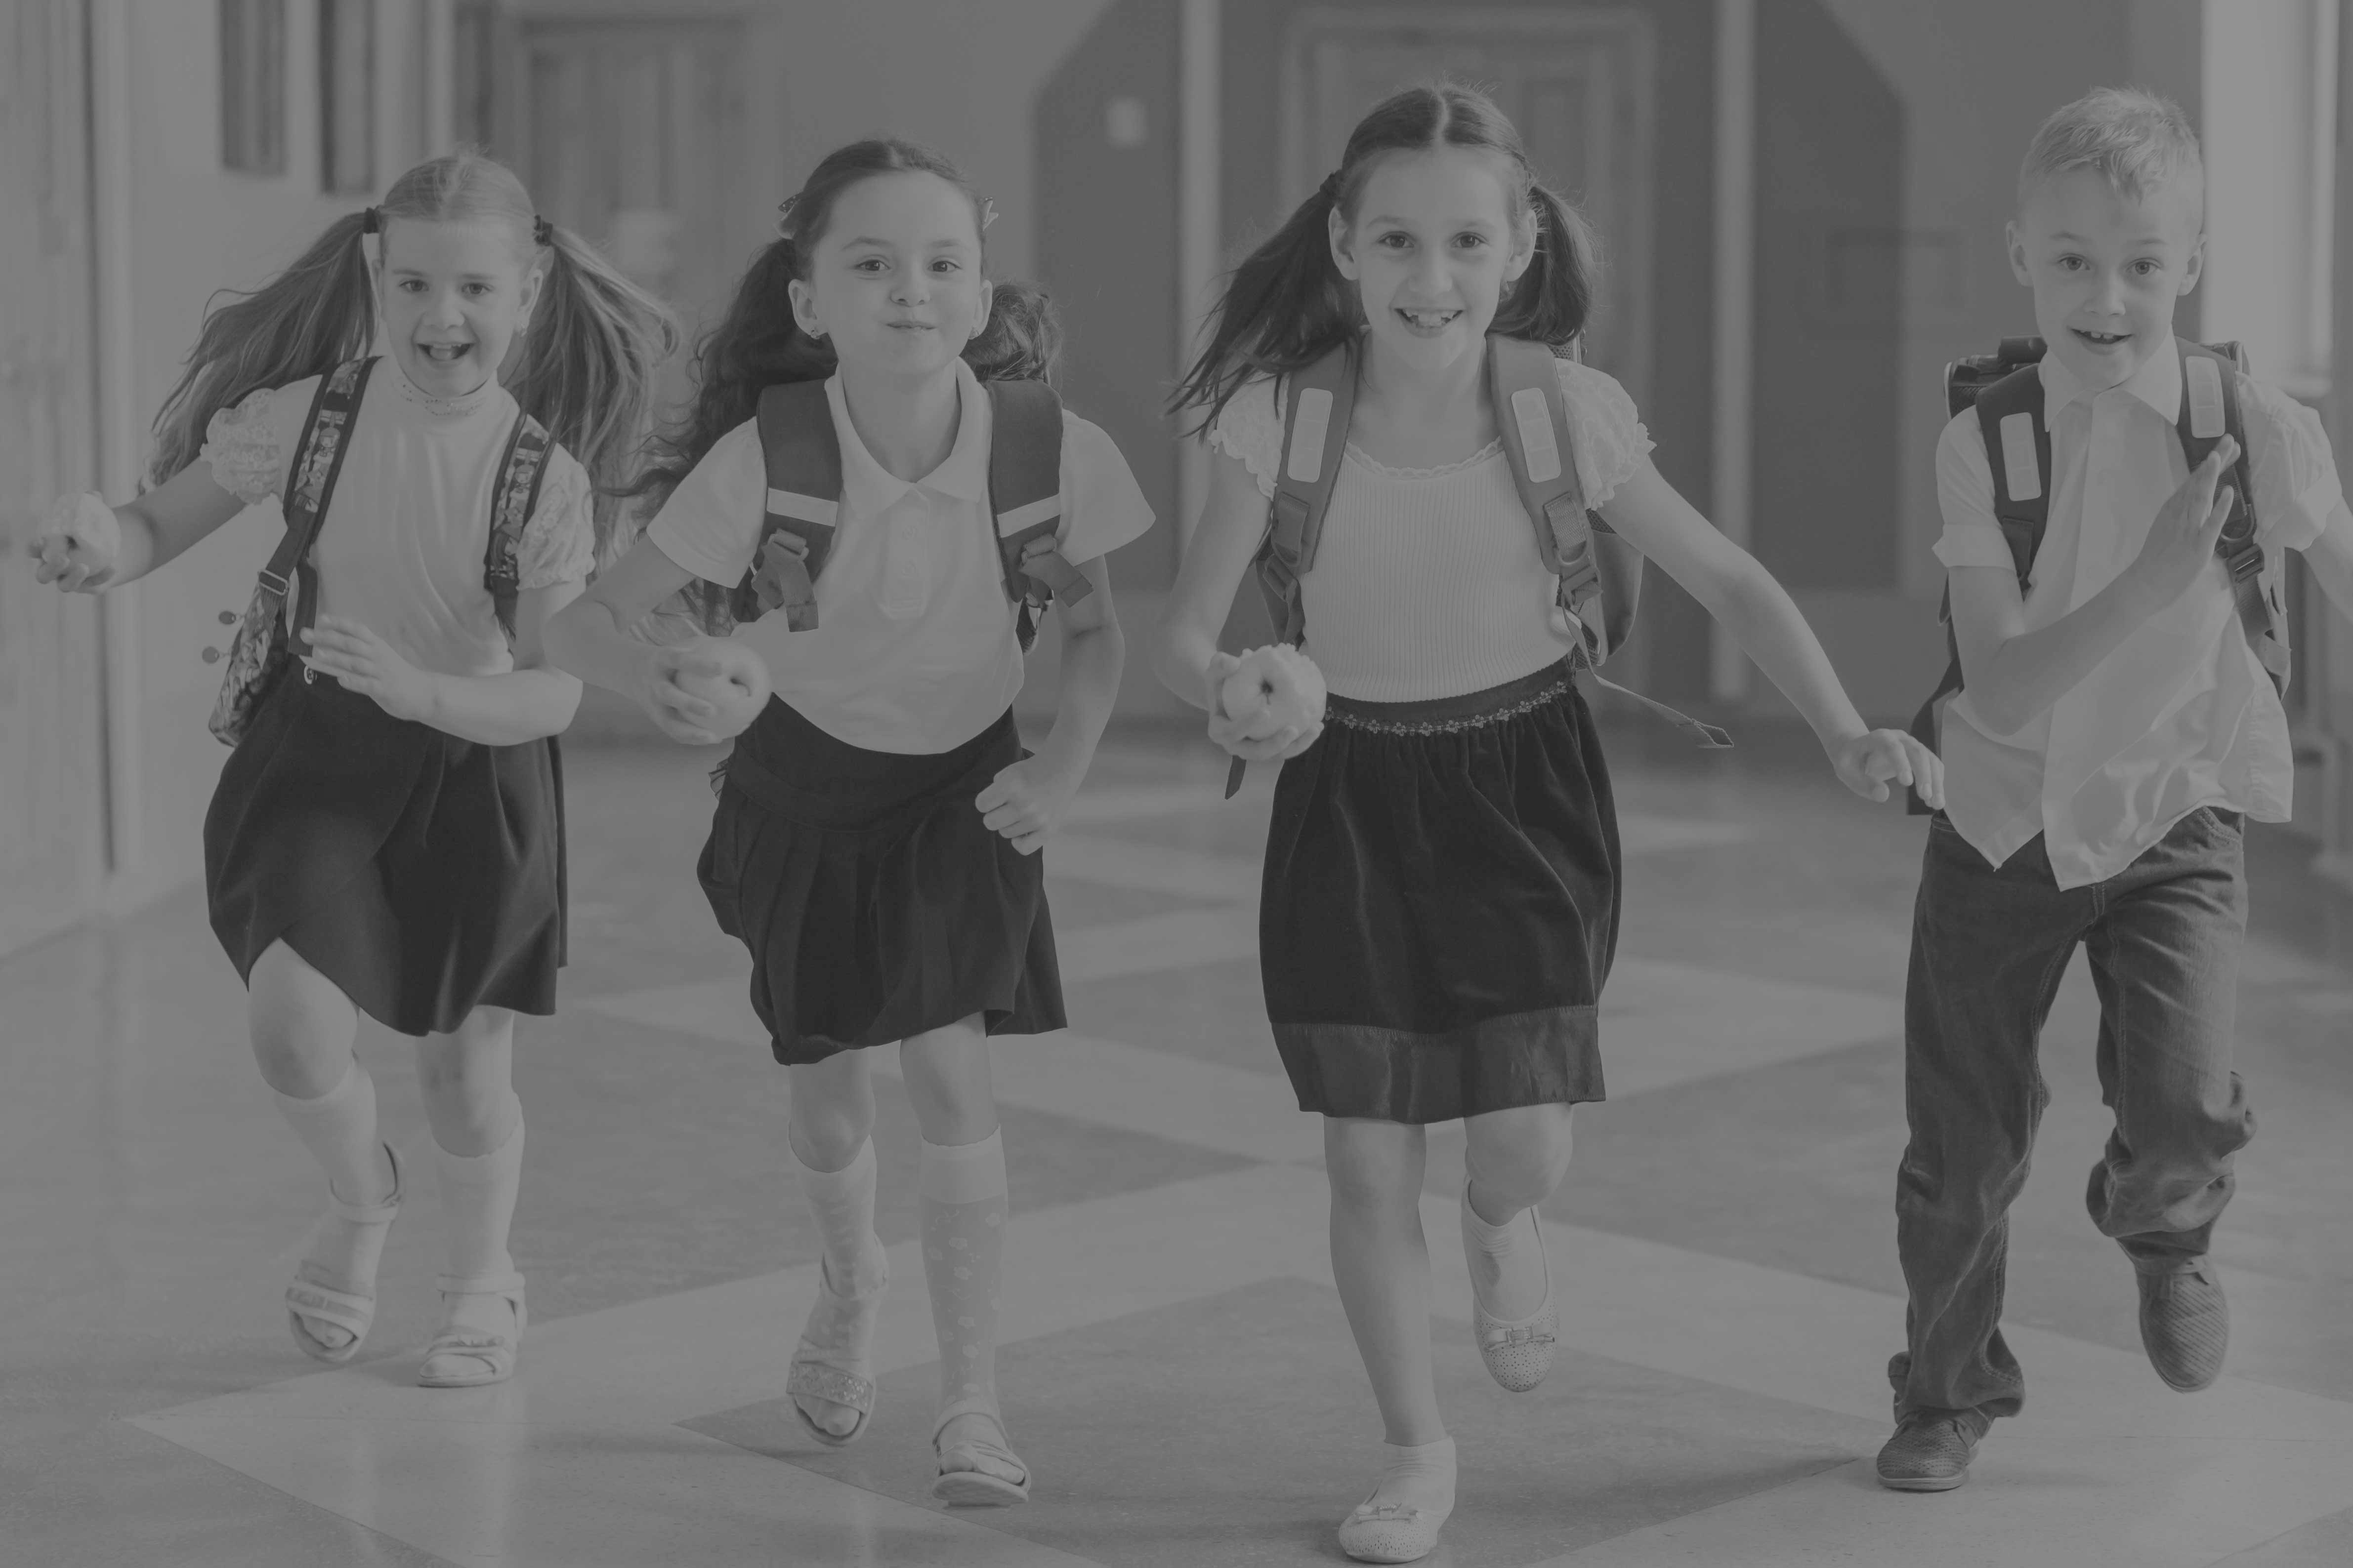
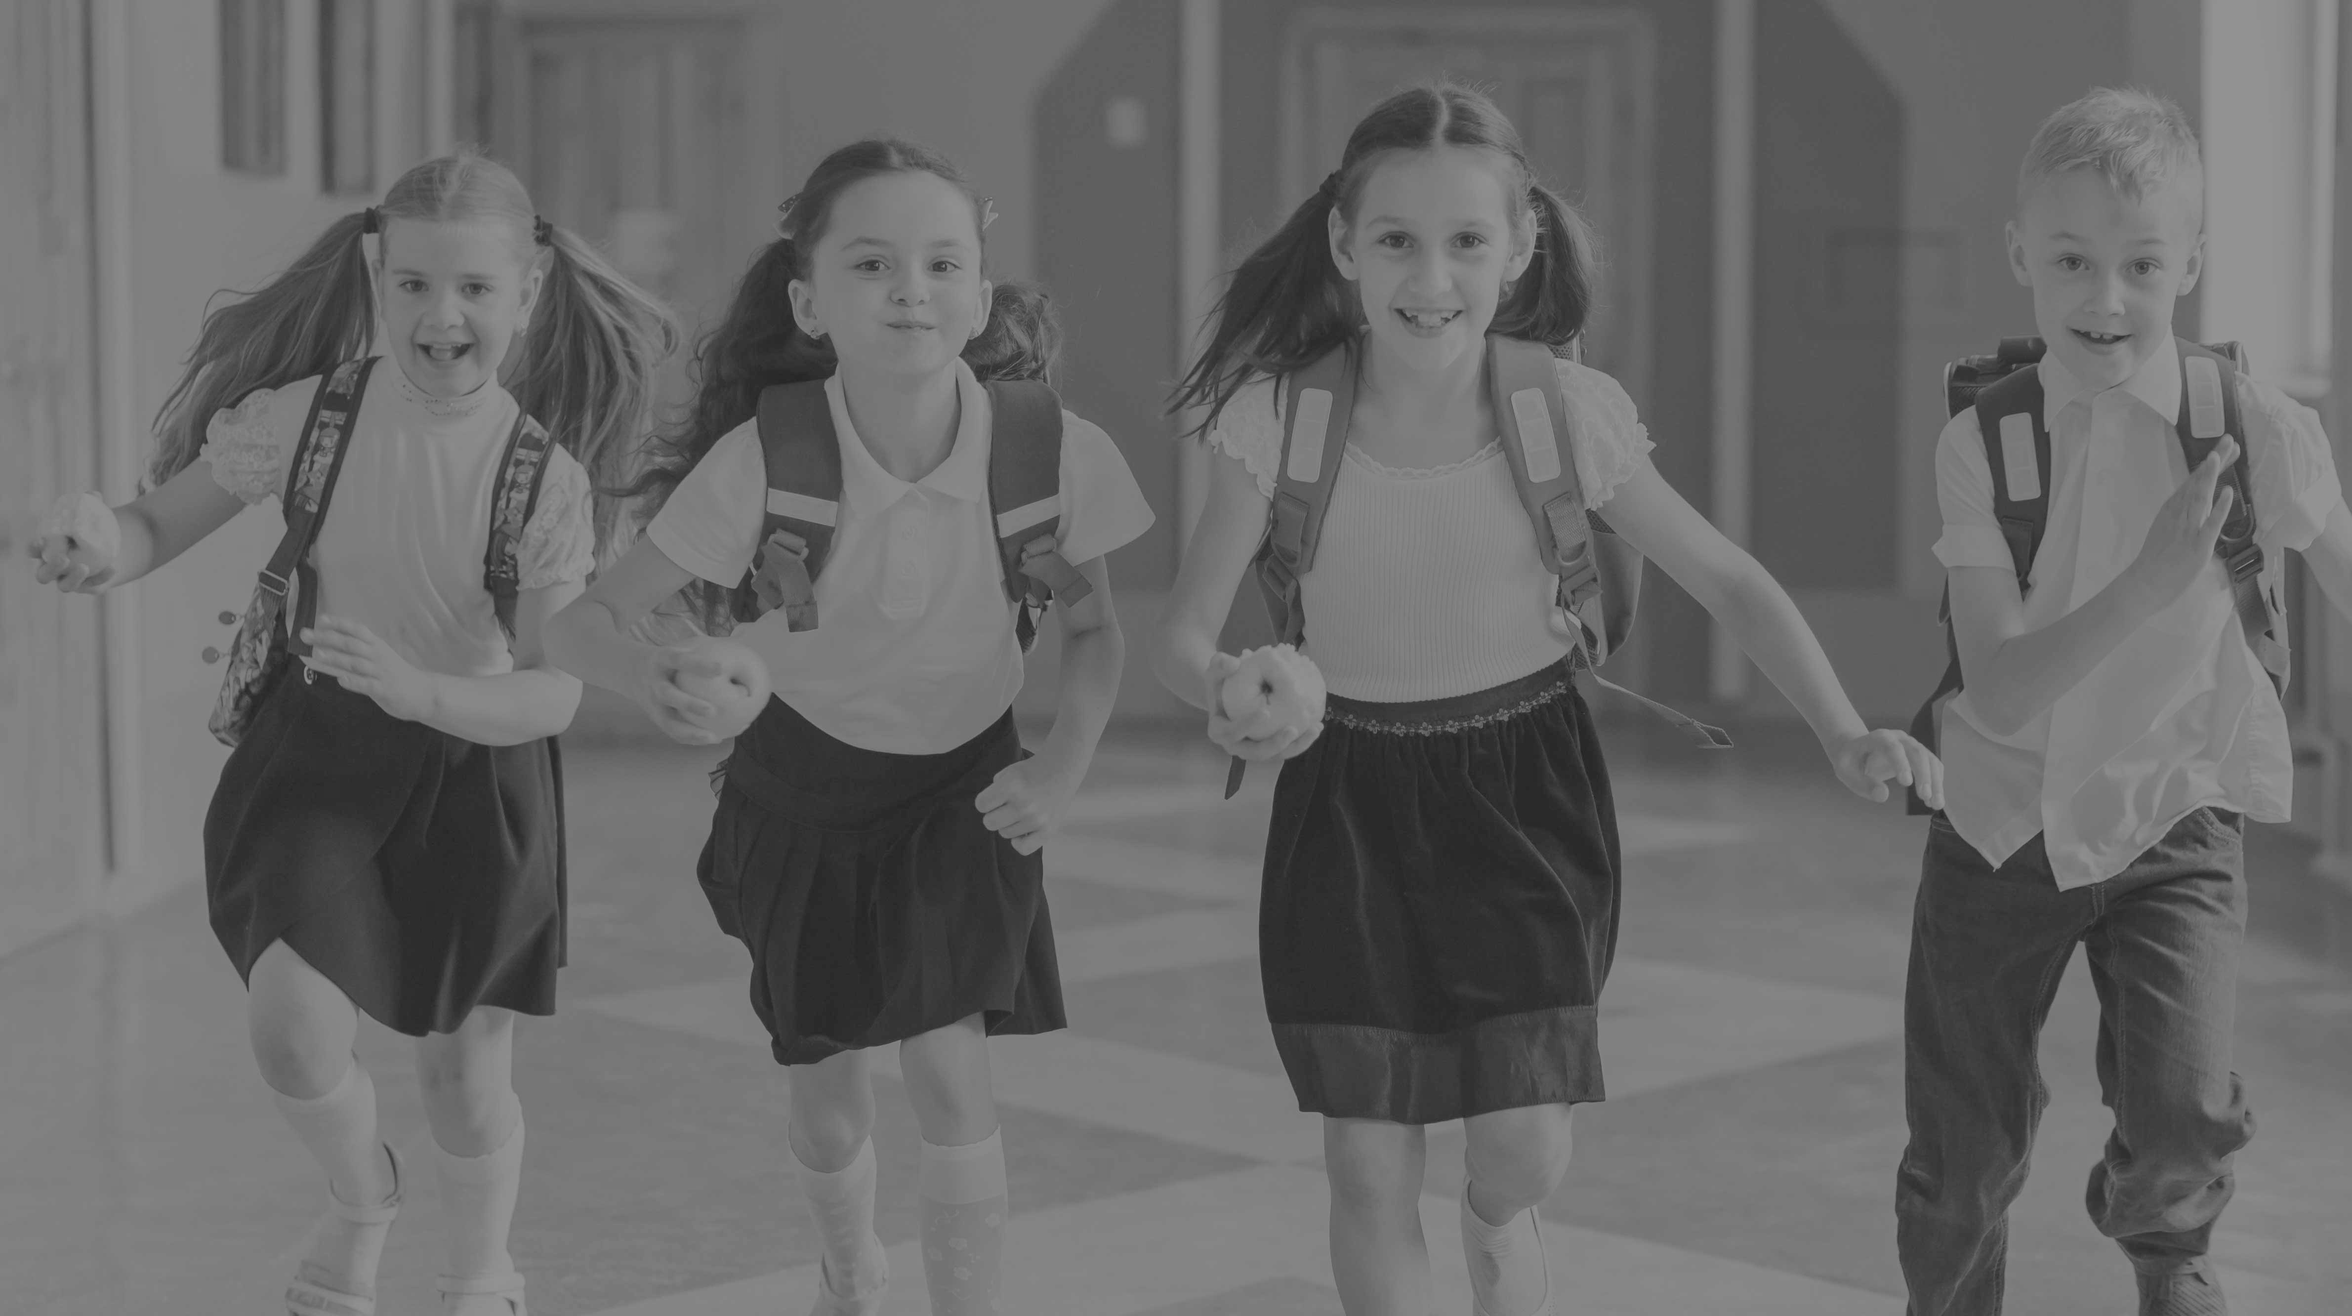
Finishing tutros displaying

diff --git a/templates/base.html b/templates/base.html
@@ -9,6 +9,9 @@
     <meta name="author" content="">
     <link href="https://fonts.googleapis.com/css?family=Poppins:100,100i,200,200i,300,300i,400,400i,500,500i,600,600i,700,700i,800,800i,900,900i&display=swap"
           rel="stylesheet">
+    <link rel="preconnect" href="https://fonts.googleapis.com">
+    <link rel="preconnect" href="https://fonts.gstatic.com" crossorigin>
+    <link href="https://fonts.googleapis.com/css2?family=Montserrat:wght@300;400;700&display=swap" rel="stylesheet">
 
     {% if title %}
         <title>{{ title }} | 100 баллов</title>
@@ -53,7 +56,7 @@
                     <ul class="nav">
                         <li class="scroll-to-section"><a href="{% url 'index' %}#top" class="active">Главная</a></li>
                         <li class="scroll-to-section"><a href="{% url 'index' %}#features">О нас</a></li>
-                        <li class="scroll-to-section"><a href="{% url 'tutors' %}">Преподаватели</a></li>
+                        <li class="scroll-to-section"><a href="{% url 'tutors' %}#tutors">Преподаватели</a></li>
                         <li class="scroll-to-section"><a href="{% url 'index' %}#contact-us">Контакты</a></li>
                         <li class="main-button"><a href="#">Sign Up</a></li>
                     </ul>
@@ -77,7 +80,7 @@
             <div class="col-lg-12">
                 <p>Copyright &copy; 2021 100ballov.by
 
-                   - Designed by Architect
+                    - Designed by Architect
                 </p>
 
                 <!-- You shall support us a little via PayPal to info@templatemo.com -->

diff --git a/templates/tutors.html b/templates/tutors.html
@@ -4,11 +4,11 @@
 {% block content %}
 
     <!-- ***** Features Item Start ***** -->
-    <section class="section" id="tutors" style="background-color: #eaeaea">
+    <section class="section">
         <div class="container">
             <div class="row">
                 <div class="col-lg-6 offset-lg-3">
-                    <div class="section-heading">
+                    <div class="section-heading" id="tutors">
                         <h2>Наши <em>Преподаватели</em></h2>
                         <img src="{% static 'site/images/line-dec.png' %}" alt="waves">
                         <p>Мы собрали команду профессионалов.</p>
@@ -28,7 +28,7 @@
             </div>
             <div class="row justify-content-between">
                 {% for tutor in tutors %}
-                    <div class="card mb-4 p-2 col-lg-3 col-md-3 col-sm-5">
+                    <div class="card mb-4 p-2 col-lg-3 col-md-3 col-sm-5 d-block text-center">
                         {% if tutor.img_link %}
                             <img src="{{ tutor.img_link }}" alt="{{ tutor.l_name }}_аватар">
                         {% else %}

diff --git a/production_static/site/css/main.css b/production_static/site/css/main.css
@@ -28,7 +28,7 @@ Table of contents
 font & reset css
 --------------------------------------------- 
 */
-@import url("https://fonts.googleapis.com/css?family=Poppins:100,100i,200,200i,300,300i,400,400i,500,500i,600,600i,700,700i,800,800i,900,900i");
+@import url('https://fonts.googleapis.com/css2?family=Montserrat:wght@300;400;700&display=swap');
 /* 
 ---------------------------------------------
 reset
@@ -80,7 +80,7 @@ header, nav, section, article, aside, footer, hgroup {
 }
 
 html, body {
-  font-family: 'Poppins', sans-serif;
+  font-family: 'Montserrat', sans-serif;
   font-weight: 400;
   background-color: #fff;
   font-size: 16px;
@@ -116,7 +116,7 @@ global styles
 html,
 body {
   background: #fff;
-  font-family: 'Poppins', sans-serif;
+  font-family: 'Montserrat', sans-serif;
 }
 
 ::selection {
@@ -202,7 +202,7 @@ header
 */
 
 .background-header {
-  background: rgba(250,250,250,0.99) !important;
+  background: rgba(195, 195, 195, 0.99) !important;
   height: 80px!important;
   position: fixed!important;
   top: 0px;

diff --git a/static/site/css/main.css b/static/site/css/main.css
@@ -20,7 +20,7 @@ Table of contents
 font & reset css
 --------------------------------------------- 
 */
-@import url("https://fonts.googleapis.com/css?family=Poppins:100,100i,200,200i,300,300i,400,400i,500,500i,600,600i,700,700i,800,800i,900,900i");
+@import url('https://fonts.googleapis.com/css2?family=Montserrat:wght@300;400;700&display=swap');
 /* 
 ---------------------------------------------
 reset
@@ -72,7 +72,7 @@ header, nav, section, article, aside, footer, hgroup {
 }
 
 html, body {
-  font-family: 'Poppins', sans-serif;
+  font-family: 'Montserrat', sans-serif;
   font-weight: 400;
   background-color: #dbdbdb;
   font-size: 16px;
@@ -108,7 +108,7 @@ global styles
 html,
 body {
   background: #fff;
-  font-family: 'Poppins', sans-serif;
+  font-family: 'Montserrat', sans-serif;
 }
 
 ::selection {

diff --git a/templates/index.html b/templates/index.html
@@ -4,14 +4,12 @@
 {% block content %}
 <!-- ***** Main Banner Area Start ***** -->
 <div class="main-banner" id="top">
-    <video autoplay muted loop id="bg-video">
-        <source src="assets/images/gym-video.mp4" type="video/mp4"/>
-    </video>
+<img src="{% static 'site/images/bg.jpg' %}" alt="" id="bg-video">
 
     <div class="video-overlay header-text">
         <div class="caption">
-            <h6>work harder, get stronger</h6>
-            <h2>easy with our <em>gym</em></h2>
+            <h6>Новый образовательный проект</h6>
+            <h2>ШКОЛЬНАЯ ПРОГРАММА В <em>"100 БАЛЛОВ"</em></h2>
             <div class="main-button scroll-to-section">
                 <a href="#features">Become a member</a>
             </div>
